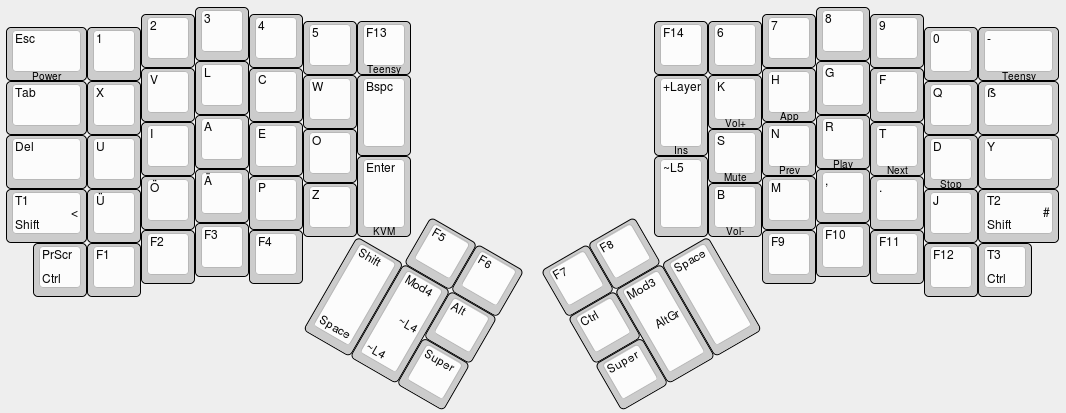
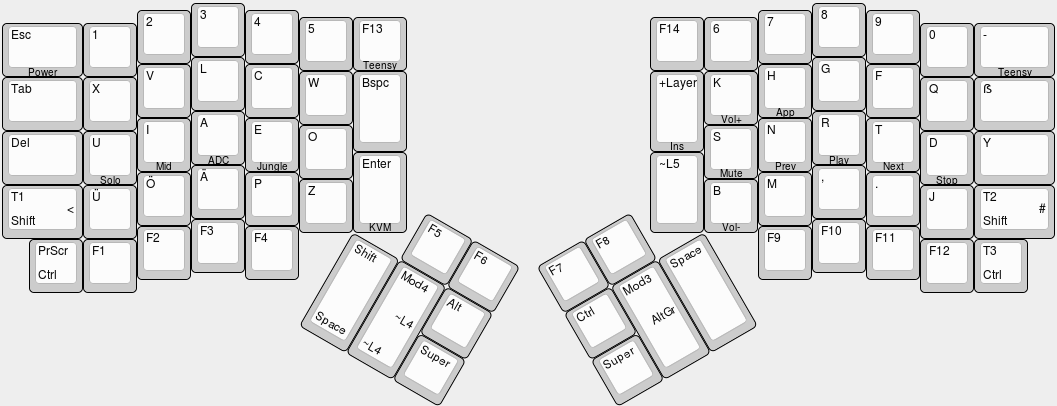
added new and shiny SMITE role call macros to layer5

Changed region(s): [[0.5307, 0.0, 0.9991, 1.0], [0.0, 0.0, 0.5307, 1.0]]

diff --git a/keyboard/ergodox/keymap_neo.h b/keyboard/ergodox/keymap_neo.h
@@ -287,7 +287,7 @@ static const uint8_t PROGMEM keymaps[][MATRIX_ROWS][MATRIX_COLS] = {
      * |--------+------+------+------+------+-------------|           |------+------+------+------+------+------+--------|
      * |        |      |      |      |      |      |      |           | Ins  | Vol+ |  App |      |      |      |        |
      * |--------+------+------+------+------+------|      |           |      |------+------+------+------+------+--------|
-     * |        |      |      |      |      |      |------|           |------| Mute | Last | Pl/Ps| Next | Stop |        |
+     * |        | Solo | Mid  | ADC  | Jung |      |------|           |------| Mute | Last | Pl/Ps| Next | Stop |        |
      * |--------+------+------+------+------+------|      |           |      |------+------+------+------+------+--------|
      * |        |      |      |      |      |      |  KVM |           |      | Vol- |      |      |      |      |        |
      * `--------+------+------+------+------+-------------'           `-------------+------+------+------+------+--------'
@@ -306,7 +306,7 @@ static const uint8_t PROGMEM keymaps[][MATRIX_ROWS][MATRIX_COLS] = {
         // left hand
          PWR,  NO,  NO,  NO,  NO,  NO,FN10,
           NO,  NO,  NO,  NO,  NO,  NO,  NO,
-          NO,  NO,  NO,  NO,  NO,  NO,
+          NO,FN12,FN13,FN14,FN15,  NO,
           NO,  NO,  NO,  NO,  NO,  NO,FN11,
           NO,  NO,  NO,  NO,  NO,
                                         NO,  NO,
@@ -335,6 +335,10 @@ enum function_id {
 
 enum macro_id {
     KVM_SWITCH,
+    SMITE_SOLO,
+    SMITE_MID,
+    SMITE_ADC,
+    SMITE_JUNG,
 };
 
 /*
@@ -349,6 +353,10 @@ static const uint16_t PROGMEM fn_actions[] = {
     [5] = ACTION_LAYER_MOMENTARY(5),
     [10] = ACTION_FUNCTION(TEENSY_KEY),
     [11] = ACTION_MACRO(KVM_SWITCH),
+    [12] = ACTION_MACRO(SMITE_SOLO),
+    [13] = ACTION_MACRO(SMITE_MID),
+    [14] = ACTION_MACRO(SMITE_ADC),
+    [15] = ACTION_MACRO(SMITE_JUNG),
 };
 
 void action_function(keyrecord_t *record, uint8_t id, uint8_t opt)
@@ -400,6 +408,22 @@ const macro_t *action_get_macro(keyrecord_t *record, uint8_t id, uint8_t opt) {
         case KVM_SWITCH:
             return (event.pressed ?
                     MACRO( I(50), T(LCTRL), T(LCTRL), W(255), W(255), T(ENTER), END) : MACRO_NONE);
+            break;
+        case SMITE_SOLO:
+            return (event.pressed ?
+                    MACRO( T(ENTER), T(H), T(G), T(E), T(G), T(ENTER), END) : MACRO_NONE);
+            break;
+        case SMITE_MID:
+            return (event.pressed ?
+                    MACRO( T(ENTER), T(M), T(S), T(SCLN), T(ENTER), END) : MACRO_NONE);
+            break;
+        case SMITE_ADC:
+            return (event.pressed ?
+                    MACRO( T(ENTER), T(D), T(SCLN), T(R), T(ENTER), END) : MACRO_NONE);
+            break;
+        case SMITE_JUNG:
+            return (event.pressed ?
+                    MACRO( T(ENTER), T(SLSH), T(A), T(J), T(I), T(E), T(F), T(ENTER), END) : MACRO_NONE);
             break;
         default:
             return MACRO_NONE;

diff --git a/README.md b/README.md
@@ -32,11 +32,12 @@ actual keymaps can be found in [keymap_neo.h](keyboard/ergodox/keymap_neo.h).
 
 In addition, each layer has a toggle key for Layer5 that hosts some media keys, 
 a teensy key and my very own special macro that is intended to switch computers 
-on my kvm switch.
+on my kvm switch. And I added some roll call macros for my favorite MOBA, 
+[Smite](http://www.smitegame.com) :)
 
 ![Layout View](layout.png)
 
-[Keyboard Layout Editor link](http://www.keyboard-layout-editor.com/##@@_x:3.5;&=3&_x:10.5;&=8;&@_y:-0.875&x:2.5;&=2&_x:1;&=4&_x:8.5;&=7&_x:1;&=9;&@_y:-0.875&x:5.5;&=5&=F13%0A%0A%0A%0ATeensy&_x:4.5;&=F14&=6;&@_y:-0.875&w:1.5;&=Esc%0A%0A%0A%0APower&=1&_x:14.5;&=0&_w:1.5;&=-%0A%0A%0A%0ATeensy;&@_y:-0.375&x:3.5;&=L&_x:10.5;&=G;&@_y:-0.875&x:2.5;&=V&_x:1;&=C&_x:8.5;&=H%0A%0A%0A%0AApp&_x:1;&=F;&@_y:-0.875&x:5.5;&=W&_h:1.5;&=Bspc&_x:4.5&h:1.5;&=+Layer%0A%0A%0A%0AIns&=K%0A%0A%0A%0AVol+;&@_y:-0.875&w:1.5;&=Tab&=X&_x:14.5;&=Q&_w:1.5;&=ẞ;&@_y:-0.375&x:3.5&a:0;&=A&_x:10.5&a:4;&=R%0A%0A%0A%0APlay;&@_y:-0.875&x:2.5;&=I&_x:1;&=E&_x:8.5;&=N%0A%0A%0A%0APrev&_x:1;&=T%0A%0A%0A%0ANext;&@_y:-0.875&x:5.5;&=O&_x:6.5;&=S%0A%0A%0A%0AMute;&@_y:-0.875&w:1.5;&=Del&=U&_x:14.5;&=D%0A%0A%0A%0AStop&_w:1.5;&=Y;&@_y:-0.625&x:6.5&h:1.5;&=Enter%0A%0A%0A%0AKVM&_x:4.5&h:1.5;&=~L5;&@_y:-0.75&x:3.5;&=Ä&_x:10.5;&=,;&@_y:-0.875&x:2.5;&=Ö&_x:1;&=P&_x:8.5;&=M&_x:1;&=.;&@_y:-0.875&x:5.5;&=Z&_x:6.5;&=B%0A%0A%0A%0AVol-;&@_y:-0.875&w:1.5;&=T1%0AShift%0A%0A%0A%0A%0A%0A<&=Ü&_x:14.5;&=J&_w:1.5;&=T2%0AShift%0A%0A%0A%0A%0A%0A#;&@_y:-0.375&x:3.5;&=F3&_x:10.5;&=F10;&@_y:-0.875&x:2.5;&=F2&_x:1;&=F4&_x:8.5;&=F9&_x:1;&=F11;&@_y:-0.75&x:0.5;&=PrScr%0ACtrl&=F1&_x:14.5;&=F12&=T3%0ACtrl;&@_r:30&rx:6.5&ry:4.25&y:-1&x:1;&=F5&=F6;&@_h:2;&=Shift%0ASpace&_h:2;&=Mod4%0A~L4%0A%0A%0A%0A%0A%0A~L4&=Alt;&@_x:2;&=Super;&@_r:-30&rx:13&y:-1&x:-3;&=F7&=F8;&@_x:-3;&=Ctrl&_h:2;&=Mod3%0A%0A%0A%0A%0A%0A%0AAltGr&_h:2;&=Space;&@_x:-3;&=Super)
+[Keyboard Layout Editor link](http://www.keyboard-layout-editor.com/#/layouts/67c6725891c912c01ce3088089f5bafd)
 
 The layout on the image is as follows:
 
